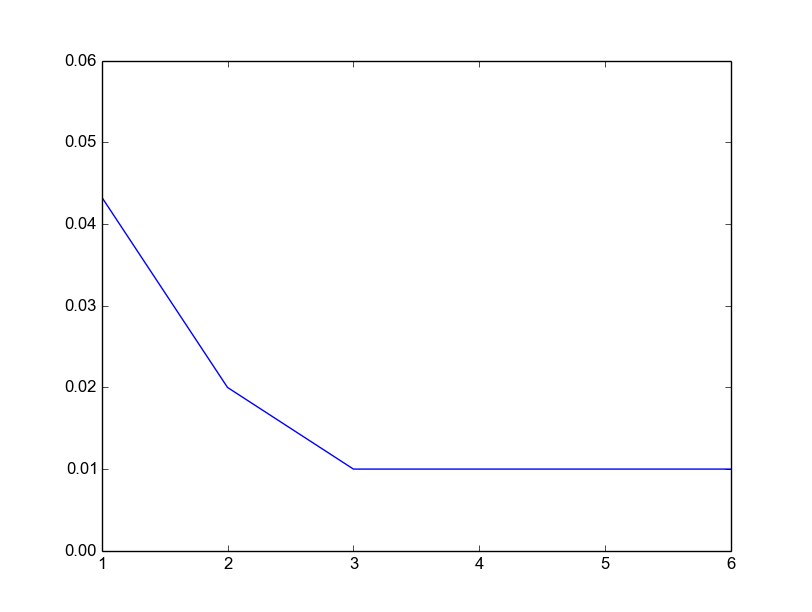
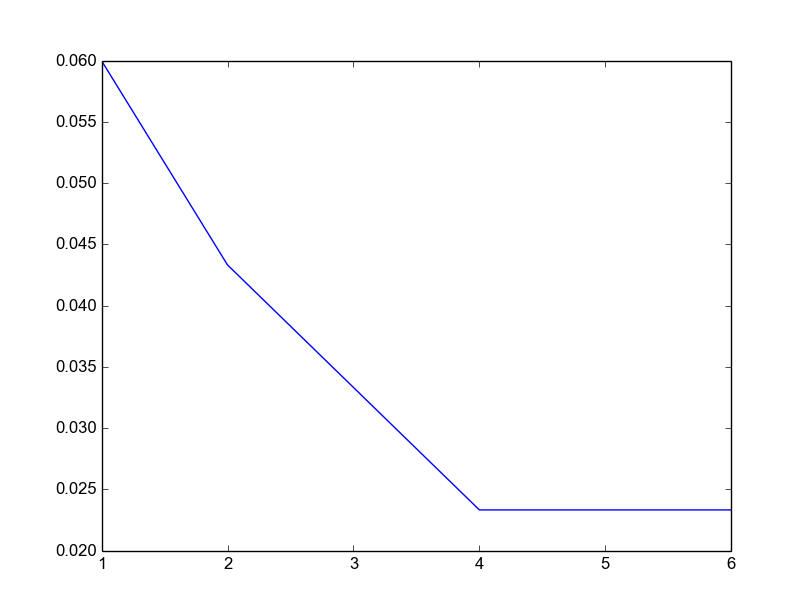
Graphs asldkfj

diff --git a/NN_m.py b/NN_m.py
@@ -10,7 +10,7 @@ Y: k by 1 array where k is number of classifications
 w1: m x d matrix where m is the number of hidden units
 w2: k x m matrix
 '''
-name = "1"
+name = "2"
 train = 'toy_multiclass_'+name+'_train.csv'
 #train = 'mnist_train.csv'
 A = None
@@ -26,6 +26,22 @@ with open(train, 'rb') as csvfile:
 
 X = A[:, 0:2].copy()
 Y = A[:, 2:3].copy()
+
+train = 'toy_multiclass_'+name+'_test.csv'
+
+A = None
+with open(train, 'rb') as csvfile:
+    spamreader = csv.reader(csvfile, delimiter=',', quotechar='|')
+    for row in spamreader:
+        row = [float(x) for x in row]
+        if(A is None):
+            A = np.matrix(row)
+        else:
+            A = np.concatenate((A,np.matrix(row)),axis=0)
+# use deep copy here to make cvxopt happy
+
+X_test = A[:, 0:2].copy()
+Y_test = A[:, 2:3].copy()
 
 #X = A[:, 0:784].copy()
 #Y = A[:, 784:785].copy()
@@ -84,7 +100,8 @@ def gradient_descent(X,Y,w1,w2,rate,lam):
 
         old_dldw1 =  np.zeros(w1.shape)
         old_dldw2 =  np.zeros(w2.shape)
-        errors = []
+        train_errors = []
+        test_errors = []
 	for i in range(0,200):
                 #rate = max(2/(i+10)**(1.0/2),rate_in)
 		dldw1 = old_dldw1 * momentum
@@ -109,14 +126,19 @@ def gradient_descent(X,Y,w1,w2,rate,lam):
 		
 		w1 = w1 - dldw1*rate
 		w2 = w2 - dldw2*rate
-                er = error_rate(X,Y,w1,w2)
-                print er
-                errors.append(er)
 		
-	return w1,w2,errors
+                train_er = error_rate(X,Y,w1,w2)
+                test_er = error_rate(X_test,Y_test,w1,w2)
+                print train_er
+                train_errors.append(train_er)
+                test_errors.append(test_er)
+                
+		
+	return w1,w2,train_errors,test_errors
 	
 def s_gradient_descent(X,Y,w1,w2,rate,lam):
-        errors = []
+        train_errors = []
+        test_errors = []
 	for i in range(0,200):
 		error = 0
 		for c in range(0,X.shape[0]):
@@ -130,11 +152,15 @@ def s_gradient_descent(X,Y,w1,w2,rate,lam):
 			w1 = w1 - d1*rate
 			w2 = w2 - d2*rate
 			error += e
-		er = error_rate(X,Y,w1,w2)
-                print er
-                errors.append(er)
+		train_er = error_rate(X,Y,w1,w2)
+                test_er = error_rate(X_test,Y_test,w1,w2)
+                print train_er
+                train_errors.append(train_er)
+                test_errors.append(test_er)
+                
 		
-	return w1,w2,errors
+		
+	return w1,w2,train_errors,test_errors
 	
 def error_rate(X,Y,w1,w2):
 	error = 0
@@ -150,22 +176,38 @@ def error_rate(X,Y,w1,w2):
 
 
 
+xvals = range(1,15)
+e = []
 '''
 for i in xvals:
     hidden = i
     w1 = np.ones((hidden,X.shape[1]+1))
     w2 = np.ones((possible_classes,hidden+1))
-    w1,w2 = gradient_descent(X,Y,w1,w2,0.05,0)
-    er = error_rate(X,Y,w1,w2)
+    w1,w2,errors,_ = s_gradient_descent(X,Y,w1,w2,0.1,0)
+    er = error_rate(X_test,Y_test,w1,w2)
     print er
     e.append(er)
 '''
+
+#batch
+#e = [0.37, 0.33666666666666667, 0.27666666666666667, 0.27666666666666667, 0.2733333333333333, 0.2733333333333333, 0.25333333333333335, 0.25333333333333335, 0.24333333333333335]
+#e += [0.24333333333333335, 0.25666666666666665, 0.25333333333333335, 0.30333333333333334, 0.6666666666666666]
+#e = [0.41, 0.4033333333333333, 0.4066666666666667, 0.4066666666666667, 0.4066666666666667, 0.41, 0.4066666666666667, 0.4033333333333333, 0.4033333333333333, 0.3933333333333333, 0.39, 0.37666666666666665, 0.6666666666666666, 0.6666666666666666]
+
+#print e
+
+#pl.plot(xvals,e)
+#pl.axis([1,10,0.3,0.5])
+#pl.show()
+
 hidden = 2
 w1 = np.ones((hidden,X.shape[1]+1))
 w2 = np.ones((possible_classes,hidden+1))
-w1,w2,errors = s_gradient_descent(X,Y,w1,w2,0.05,0)
+w1,w2,train_e,test_e = s_gradient_descent(X,Y,w1,w2,0.01,0.001)
 
-pl.plot(range(1,len(errors)+1),errors)
+
+pl.plot(range(1,len(train_e)+1),train_e)
+pl.plot(range(1,len(test_e)+1),test_e)
 pl.show()
 
 '''
